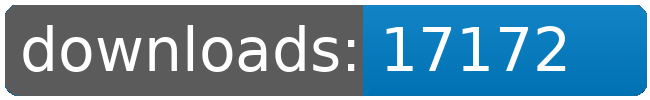
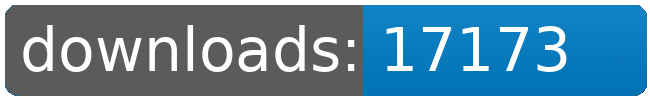
dl log written

Changed region(s): [[0.8308, 0.42, 0.8923, 0.72], [0.8, 0.27, 0.8615, 0.33]]

diff --git a/README.md b/README.md
@@ -21,8 +21,8 @@
 		<td>2030</td>
 		<td>2056</td>
 		<td>2082</td>
-		<td>2099</td>
-		<td>+ 17</td>
+		<td>2100</td>
+		<td>+ 18</td>
 	</tr>
 	<tr>
 		<td>Factory.Outlets</td>
@@ -109,8 +109,8 @@
 		<td></td>
 		<td></td>
 		<td></td>
-		<td>17172</td>
-		<td>137</td>
+		<td>17173</td>
+		<td>138</td>
 	</tr>
 </table>
 </sub></sup>
@@ -157,8 +157,8 @@
 		<td>2030</td>
 		<td>2056</td>
 		<td>2082</td>
-		<td>2099</td>
-		<td>+ 17</td>
+		<td>2100</td>
+		<td>+ 18</td>
 	</tr>
 	<tr>
 		<td>Korunak.Defense.Drones</td>
@@ -223,8 +223,8 @@
 		<td></td>
 		<td></td>
 		<td></td>
-		<td>17172</td>
-		<td>137</td>
+		<td>17173</td>
+		<td>138</td>
 	</tr>
 </table>
 </sub></sup>
@@ -252,7 +252,7 @@
 		<td>4</td>
 		<td>64</td>
 		<td>8</td>
-		<td>2</td>
+		<td>7</td>
 	</tr>
 	<tr>
 		<td>unique visitors</td>
@@ -264,7 +264,7 @@
 		<td>2</td>
 		<td>12</td>
 		<td>7</td>
-		<td>2</td>
+		<td>3</td>
 	</tr>
 </table>
 <br>
@@ -278,8 +278,8 @@
 	</tr>
 	<tr>
 		<td>2025-10-13</td>
-		<td>1418</td>
-		<td>447</td>
+		<td>1423</td>
+		<td>448</td>
 		<td>105</td>
 		<td>20</td>
 	</tr>
@@ -292,8 +292,8 @@
 	</tr>
 	<tr>
 		<td>59</td>
-		<td>24.03</td>
-		<td>7.58</td>
+		<td>24.12</td>
+		<td>7.59</td>
 		<td></td>
 		<td></td>
 	</tr>
